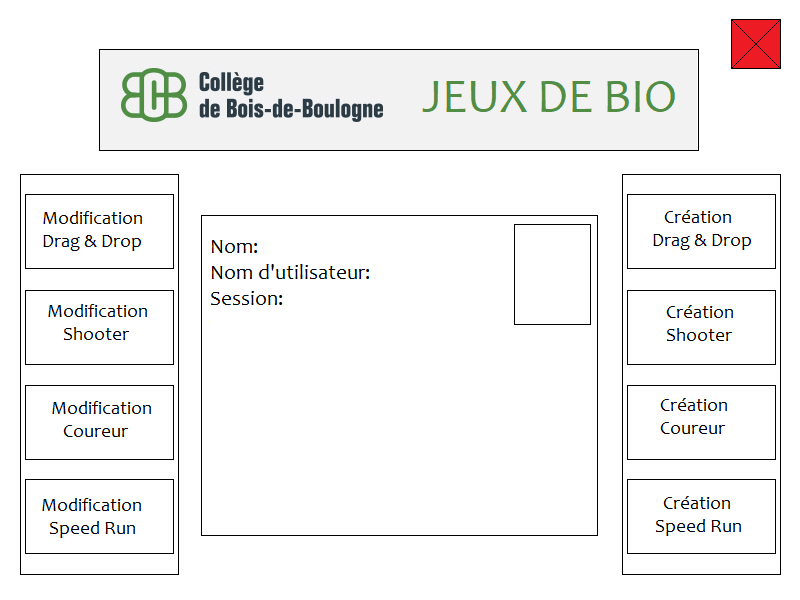
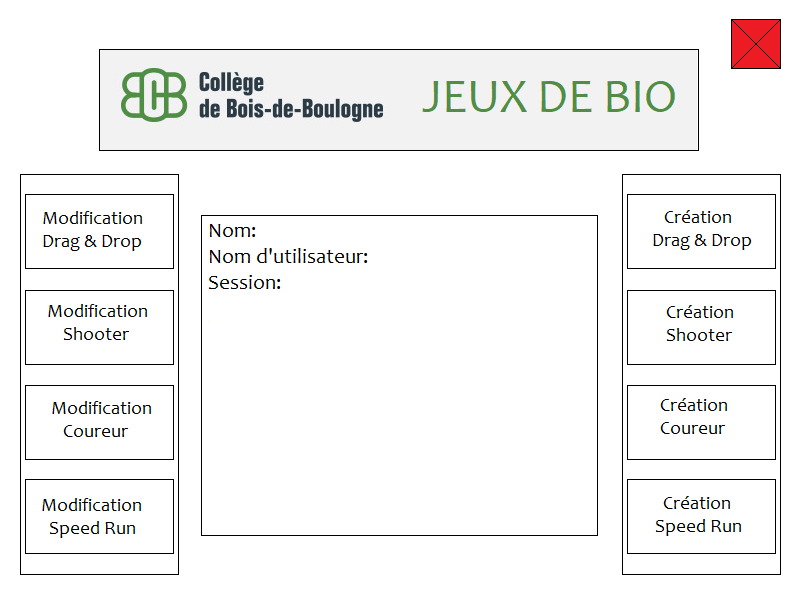
resize et location des jlabels des log in prof + etudiant

Changed region(s): [[0.25, 0.36, 0.4688, 0.51]]

diff --git a/src/ca/qc/bdeb/vue/principale/MondeEtudiant.java b/src/ca/qc/bdeb/vue/principale/MondeEtudiant.java
@@ -30,8 +30,8 @@ public class MondeEtudiant extends JComponent {
 
     private JLabel lblNom = new JLabel();
     private JLabel lblDA = new JLabel();
-    private JLabel lblProf = new JLabel();
     private JLabel lblGroupe = new JLabel();
+    private JLabel lblProf = new JLabel();
 
     private Bouton boutonDragDrop = new Bouton();
     private Bouton boutonShooter = new Bouton();
@@ -56,22 +56,22 @@ public class MondeEtudiant extends JComponent {
         image = Toolkit.getDefaultToolkit().getImage(controleur.getLocationFenetreEtudiant());
 
         lblNom.setText(controleur.getEtudiant().getNom());
-        lblNom.setLocation(262, 227);
+        lblNom.setLocation(260, 224);
         lblNom.setSize(190, 20);
         this.add(lblNom);
         
         lblDA.setText(controleur.getEtudiant().getDa());
-        lblDA.setLocation(246, 254);
+        lblDA.setLocation(244, 250);
         lblDA.setSize(190, 20);
         this.add(lblDA);
 
         lblGroupe.setText(controleur.getEtudiant().getGroupe().getNom());
-        lblGroupe.setLocation(293, 278);
+        lblGroupe.setLocation(283, 277);
         lblGroupe.setSize(190, 20);
         this.add(lblGroupe);
         
         lblProf.setText(controleur.getEtudiant().getProfesseur().getNom() + "");
-        lblProf.setLocation(337, 303);
+        lblProf.setLocation(314, 301);
         lblProf.setSize(190, 20);
         this.add(lblProf);
 

diff --git a/src/ca/qc/bdeb/vue/principale/MondeProfesseur.java b/src/ca/qc/bdeb/vue/principale/MondeProfesseur.java
@@ -25,7 +25,7 @@ public class MondeProfesseur extends JComponent {
     private Image image;
 
     private FenetrePrincipale fenetre;
-    
+
     private JLabel lblNom = new JLabel();
     private JLabel lblNomUtilisateur = new JLabel();
     private JLabel lblSession = new JLabel();
@@ -55,9 +55,21 @@ public class MondeProfesseur extends JComponent {
 
     private void creerInterface() {
         image = Toolkit.getDefaultToolkit().getImage(controleur.getLocationFenetreProfesseur());
-        
+
         lblNom.setText(controleur.getProfesseur().getNom());
-        
+        lblNom.setLocation(260, 220);
+        lblNom.setSize(190, 20);
+        this.add(lblNom);
+
+        lblNomUtilisateur.setText(controleur.getProfesseur().getNomUtilisateur());
+        lblNomUtilisateur.setLocation(372, 248);
+        lblNomUtilisateur.setSize(190, 20);
+        this.add(lblNomUtilisateur);
+
+        lblSession.setText(controleur.getProfesseur().getSession());
+        lblSession.setLocation(286, 273);
+        lblSession.setSize(190, 20);
+        this.add(lblSession);
 
         boutonMdDragDrop.setLocation(26, 194);
         boutonMdDragDrop.setSize(147, 74);

diff --git a/src/ca/qc/bdeb/vue/principale/FenetrePrincipale.java b/src/ca/qc/bdeb/vue/principale/FenetrePrincipale.java
@@ -111,6 +111,7 @@ public class FenetrePrincipale extends JFrame implements Observer {
     }
 
     public void logOutEtudiant() {
+        this.setJMenuBar(null);
         this.remove(mondeEtudiant);
         this.add(mondePrincipale);
         this.validate();
@@ -119,6 +120,7 @@ public class FenetrePrincipale extends JFrame implements Observer {
     }
 
     public void logOutProfesseur() {
+        this.setJMenuBar(null);
         this.remove(mondeProfesseur);
         this.add(mondePrincipale);
         this.validate();
@@ -132,6 +134,10 @@ public class FenetrePrincipale extends JFrame implements Observer {
         } else {
             mondePrincipale.finJeu();
         }
+    }
+
+    public void addMenuBar(JMenuBar mnuBar) {
+        this.setJMenuBar(mnuBar);
     }
 
     private void fermerApp() {
